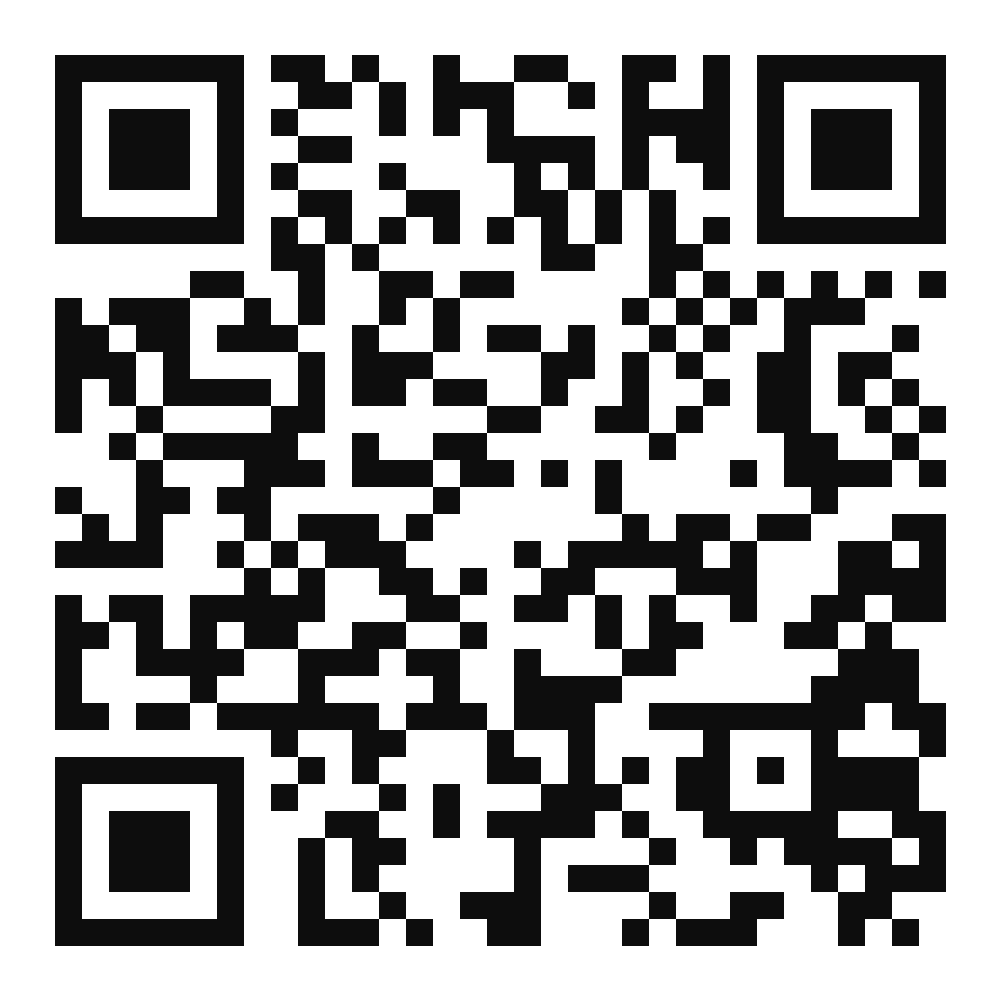
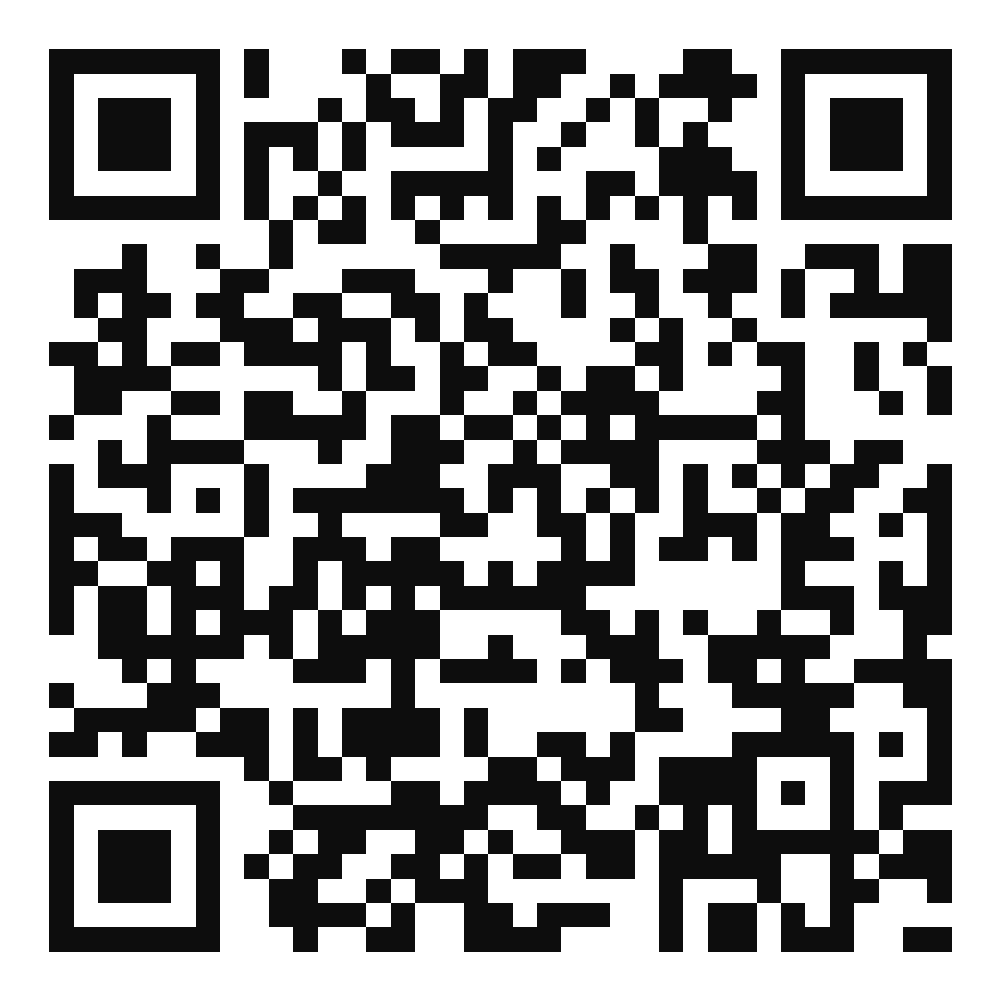
seo: instrument /review for GA4 + add review playbook
/review was a 301 straight to Google, which made the review funnel
invisible. "Nobody scanned the card" and "everybody scanned and nobody
reviewed" looked identical in the data. Replace it with a static page
that fires a GA4 review_click (with a source param) and self-redirects
in ~2s, so the friction cost is nil but the funnel is measurable.

- public/review/index.html: tracked interstitial, nudges reviewers to
  mention barber, service, and city (the terms we want to rank for)
- netlify.toml: drop the 301 so the static page wins the route
- make-review-card.mjs: QR now encodes ?src=qr to separate card scans
  from ?src=sms follow-up texts
- docs/review-playbook.md: ask scripts, SMS timing, reply templates,
  and the Google policy rules (no incentives, no gating)

Reviews are the binding constraint at 4.5 stars / 83 reviews. The map
pack outranks the site, so review count and rating gate everything
downstream.

diff --git a/docs/review-card.html b/docs/review-card.html
@@ -27,7 +27,7 @@
   
   <div class="sheet">
     <div class="card">
[2 lines of base64/hex data omitted]
       <div class="copy">
         <h1>Loved your cut?<br/><span class="gold">Leave us a review.</span></h1>
         <div class="stars">★ ★ ★ ★ ★</div>
@@ -38,7 +38,7 @@
   </div>
   <div class="sheet">
     <div class="card">
[2 lines of base64/hex data omitted]
       <div class="copy">
         <h1>Loved your cut?<br/><span class="gold">Leave us a review.</span></h1>
         <div class="stars">★ ★ ★ ★ ★</div>

diff --git a/public/review/index.html b/public/review/index.html
@@ -1,0 +1,91 @@
+<!doctype html>
+<html lang="en">
+  <head>
+    <meta charset="utf-8" />
+    <meta name="viewport" content="width=device-width, initial-scale=1.0" />
+    <title>Leave a Review | Hair Mechanics</title>
+    <meta name="robots" content="noindex, nofollow" />
+
+    <!-- Fallback: if JS is off, still land on Google after 3s. -->
+    <noscript>
+      <meta http-equiv="refresh" content="0; url=https://g.page/r/Cc2wjU_thhsrEAI/review" />
+    </noscript>
+
+    <script async src="https://www.googletagmanager.com/gtag/js?id=G-C82GRQVLDF"></script>
+    <script>
+      window.dataLayer = window.dataLayer || [];
+      function gtag(){dataLayer.push(arguments);}
+      gtag('js', new Date());
+      gtag('config', 'G-C82GRQVLDF');
+    </script>
+
+    <style>
+      * { box-sizing: border-box; margin: 0; padding: 0; }
+      body {
+        font-family: 'Oswald', 'Helvetica Neue', Arial, sans-serif;
+        background: #1A1A1A; color: #fff;
+        min-height: 100vh; display: flex; align-items: center; justify-content: center;
+        padding: 24px; text-align: center;
+      }
+      .wrap { max-width: 380px; }
+      .logo { width: 72px; height: 72px; border-radius: 12px; margin: 0 auto 24px; display: block; }
+      h1 { font-size: 26px; text-transform: uppercase; letter-spacing: 1px; line-height: 1.2; }
+      .gold { color: #C99A22; }
+      .stars { color: #C99A22; font-size: 24px; letter-spacing: 6px; margin: 12px 0 20px; }
+      p { color: #b8b8b8; font-size: 15px; line-height: 1.5; }
+      .nudge {
+        margin-top: 22px; padding: 14px 16px; border: 1px solid #333; border-radius: 10px;
+        background: #212121; font-size: 14px; color: #d4d4d4; text-align: left;
+      }
+      .nudge strong { color: #C99A22; display: block; margin-bottom: 6px; font-weight: 600; }
+      .go {
+        display: inline-block; margin-top: 24px; background: #C99A22; color: #1A1A1A;
+        padding: 14px 28px; border-radius: 8px; font-weight: 700; font-size: 16px;
+        text-decoration: none; letter-spacing: .5px;
+      }
+      .sending { margin-top: 18px; font-size: 13px; color: #777; }
+    </style>
+  </head>
+  <body>
+    <div class="wrap">
+      <img class="logo" src="/assets/Logo.png" alt="Hair Mechanics" />
+      <h1>Thanks for coming in.<br /><span class="gold">Mind leaving a review?</span></h1>
+      <div class="stars">★ ★ ★ ★ ★</div>
+      <p>Takes about 20 seconds. It's the single biggest thing that helps people in Auburn find the shop.</p>
+
+      <div class="nudge">
+        <strong>Helps if you mention:</strong>
+        Which barber cut your hair, what you got (fade, beard trim, kids cut), and that you're in&nbsp;Auburn.
+      </div>
+
+      <a class="go" id="go" href="https://g.page/r/Cc2wjU_thhsrEAI/review">Write my review →</a>
+      <div class="sending" id="sending">Taking you to Google…</div>
+    </div>
+
+    <script>
+      (function () {
+        var DEST = 'https://g.page/r/Cc2wjU_thhsrEAI/review';
+        var params = new URLSearchParams(window.location.search);
+        // ?src=qr on the printed card, ?src=sms in follow-up texts — lets us see
+        // which channel actually produces reviews instead of guessing.
+        var src = params.get('src') || 'direct';
+
+        gtag('event', 'review_click', { method: 'google', source: src });
+
+        var jumped = false;
+        function jump() {
+          if (jumped) return;
+          jumped = true;
+          window.location.replace(DEST);
+        }
+
+        // Give the beacon a moment to leave, then go. Manual tap short-circuits it.
+        document.getElementById('go').addEventListener('click', function (e) {
+          e.preventDefault();
+          jump();
+        });
+        setTimeout(jump, 2200);
+      })();
+    </script>
+  </body>
+</html>

diff --git a/docs/review-playbook.md b/docs/review-playbook.md
@@ -1,0 +1,117 @@
+# Review Playbook — Hair Mechanics
+
+**Why this is priority #1:** Hair Mechanics sits at **4.5★ / 83 reviews**. Google's
+local pack weights review count, rating, velocity, and recency heavily. Competitors in
+Auburn are typically 4.8★ with several hundred reviews. Until that gap closes, the
+website can rank perfectly and still lose the click to the three businesses in the map
+box above it.
+
+**Target:** 4.7★ and 200+ reviews. At 8–10 new reviews/week that's roughly one quarter.
+
+---
+
+## The three asks
+
+### 1. In-chair ask (highest conversion, do this every cut)
+
+Right after the mirror check, while the client is still happy:
+
+> "Glad you like it. If you've got 20 seconds — there's a QR on the counter for a
+> Google review. Helps a ton with people finding us."
+
+Then hand them the card or point at the mirror card. **Ask while they're in the chair,
+not at the door.** Once they're standing they're gone.
+
+Barbers should ask **every** satisfied client. Not the ones who seem enthusiastic —
+everyone. Selective asking is what keeps shops stuck at 4.5.
+
+### 2. QR card (passive backup)
+
+Generated by `npm run review-card` → `docs/review-card.html`. Print it, cut it, place:
+
+- One at the register
+- One at **each** mirror station
+- One taped inside the waiting area
+
+QR points to `hairmechanics.net/review?src=qr`.
+
+### 3. Follow-up text (catches the ones who said "sure" and forgot)
+
+Send **the same evening**, 3–4 hours after the appointment. Not next day.
+
+> Hey [name] — Glen at Hair Mechanics. Thanks for coming in today. If you've got a sec,
+> a quick Google review really helps the shop: hairmechanics.net/review?src=sms
+
+Rules:
+- Only to clients who were actually happy
+- Once. Never a second reminder
+- Never to a bulk list of old clients — Google's filter strips sudden spikes from stale
+  contacts, and it can look like review buying
+
+---
+
+## What to ask them to mention
+
+The page at `/review` already nudges this, but reinforce it verbally. Reviews that name
+the **service** and the **city** are what make you surface for `fade auburn wa`,
+`beard trim near me`, `barberia cerca de mi`:
+
+- Which barber cut their hair
+- What they got — fade, beard trim, kids cut, line-up
+- That they're in Auburn (or Kent/Federal Way if they drove in)
+
+Never script the review for them. Suggest the topics, not the words.
+
+---
+
+## Replying to reviews
+
+**Reply to every single one, within 48 hours.** Replies are indexed text — this is free
+keyword real estate, and it's a documented local ranking signal. It's also what AI
+assistants read when summarizing the business.
+
+**5-star:**
+> Appreciate it, [name]! Glad the [fade / beard trim] came out right. See you next time
+> here in Auburn. — Glen
+
+**4-star:**
+> Thanks for the honest feedback, [name]. Tell us what would've made it a 5 next time —
+> we'll get it dialed in. — Glen
+
+**1–3 star:**
+> Sorry we missed the mark, [name]. That's not our standard. Give me a call at
+> (206) 399-9288 and I'll make it right. — Glen
+
+Never argue publicly. One reply, take it offline, move on. A calm reply to a bad review
+converts readers better than the bad review costs you.
+
+---
+
+## Hard rules (Google policy — violating these can wipe the whole profile)
+
+- **No incentives.** No free line-up, no discount, no raffle entry for a review. This is
+  an explicit Google Terms violation and gets reviews purged.
+- **No gating.** Don't screen for happy clients first and route only them to Google.
+  Asking everyone who's satisfied is fine; building a filter that intercepts unhappy
+  people is a violation.
+- **No shop devices.** Don't let clients leave reviews on the shop's iPad or wifi.
+  Multiple reviews from one IP/device get filtered as fake.
+- **No bulk blasts** to old client lists.
+
+---
+
+## Measurement
+
+`/review` fires a GA4 `review_click` event with a `source` param (`qr`, `sms`, or
+`direct`). That closes the loop that was previously invisible:
+
+| What you'll see | What it means |
+|---|---|
+| Low `review_click` count | Barbers aren't asking. Coaching problem. |
+| High clicks, flat review count | People bounce at the Google form. Check the link on a real phone. |
+| `qr` ≫ `sms` | Cards work, texts aren't going out. |
+| `sms` ≫ `qr` | Cards aren't placed where people look. |
+
+Check weekly alongside `npm run ga4:pull`. Update `RATING` and `REVIEWS_COUNT` in
+`src/constants/business.ts` monthly — they feed the homepage, every area page, and the
+schema.
